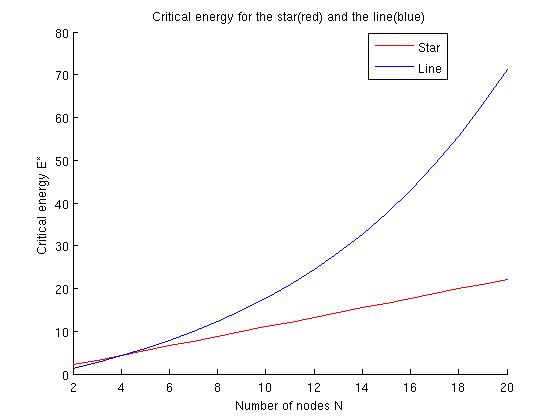
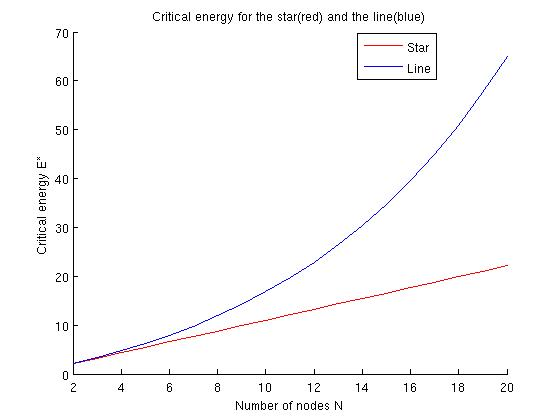
add graph for star and line

diff --git a/linestargraphs.m b/linestargraphs.m
@@ -9,7 +9,7 @@ for i=2:n
         for k=0:i-1
             El(i,j)=El(i,j)+p(j)^k;
         end
-        El(i,j)=El(i,j)/p(j)^i-1;
+        El(i,j)=El(i,j)/p(j)^(i-1);
     end
 end
 for j=1:length(p)
